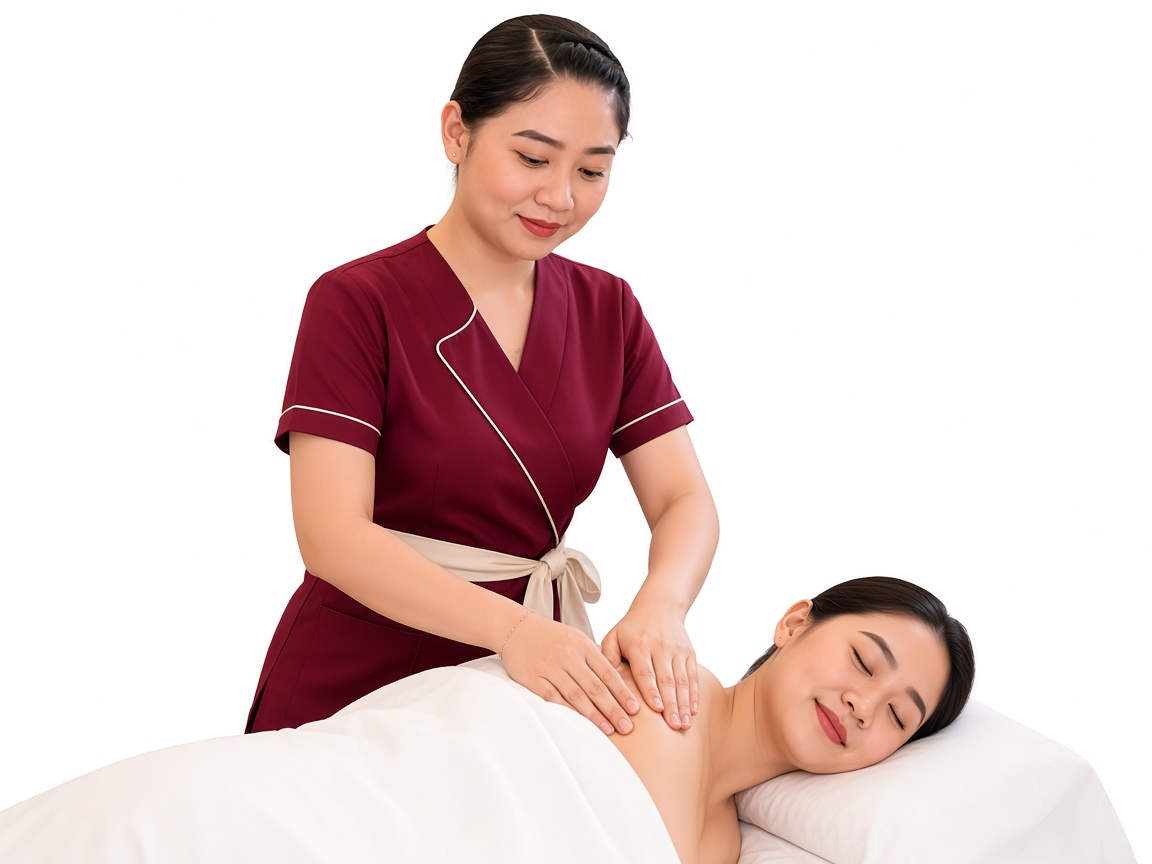
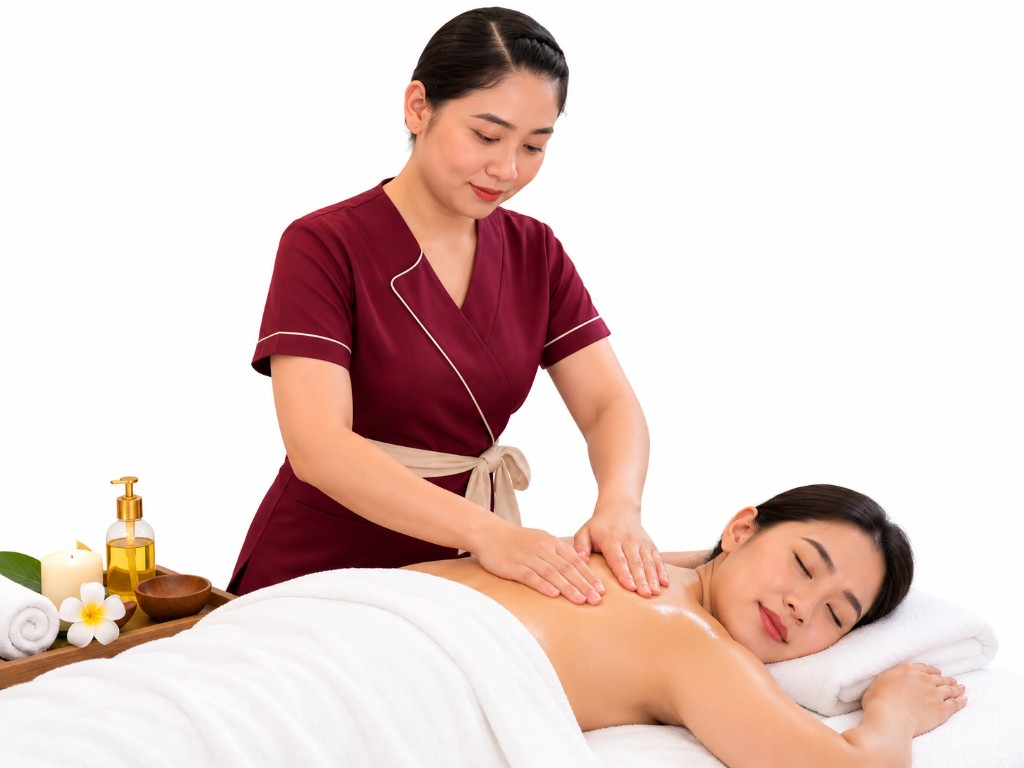
added changes

Changed region(s): [[0.0, 0.0, 0.9688, 1.0], [0.4688, 0.9375, 0.5, 1.0]]

diff --git a/src/lib/service-data.ts b/src/lib/service-data.ts
@@ -20,30 +20,30 @@ const eventImage = '/images/services/home-cta.jpg';
 const make = (slug:string,name:string,category:ServiceItem['category'],description:string,price:string,duration:string,image:string,highlights:string[]):ServiceItem => ({slug,name,category,description,price,duration,image,highlights});
 
 export const serviceItems: ServiceItem[] = [
-  make('luxury-spa-package-dubai','Luxury Spa Package','spa','A complete premium spa journey combining relaxation, massage and wellness rituals for a calm, polished experience at home or hotel.','....','120 min','/images/packages/luxury-v2.jpg',['Professional female therapist','Premium oils & products','Home, hotel or private location']),
+  make('luxury-spa-package-dubai','Luxury Spa Package','spa','A complete premium spa journey combining relaxation, massage and wellness rituals for a calm, polished experience at home or hotel.','....','120 min','/images/packages/luxury-v3.jpg',['Professional female therapist','Premium oils & products','Home, hotel or private location']),
   make('couples-spa-package-dubai','Couples Spa Package','spa','A relaxing shared spa experience designed for couples who want quality time, calm surroundings and personalized treatments.','....','90 min','/images/packages/couples-v2.jpg',['Two professional therapists','Couples setup','Flexible location']),
   make('spa-day-package-dubai','Spa Day Package','spa','A full spa-day style experience with restorative treatments and wellness touches delivered wherever you are in Dubai.','....','100 min','/images/packages/spa-day-v3.jpg',['Relaxation ritual','Massage & wellness care','Personalized setup']),
-  make('massage-package-dubai','Massage Package','spa','A focused massage experience for stress release, muscle relaxation and everyday wellness.','....','60 min','/images/packages/massage-v2.jpg',['Multiple massage styles','Experienced therapist','At-your-place service']),
+  make('massage-package-dubai','Massage Package','spa','A focused massage experience for stress release, muscle relaxation and everyday wellness.','....','60 min','/images/packages/massage-v3.jpg',['Multiple massage styles','Experienced therapist','At-your-place service']),
   make('moroccan-bath-package-dubai','Moroccan Bath Package','spa','A luxurious Moroccan bath ritual with cleansing, exfoliation and relaxing finishing care.','....','75 min','/images/packages/moroccan-v2.jpg',['Traditional-inspired ritual','Premium body care','Private setup']),
   make('spa-gift-voucher-dubai','Spa Gift Voucher','spa','A thoughtful wellness gift for birthdays, anniversaries, celebrations or simply someone who deserves time to relax.','....','Flexible','/images/packages/voucher-v2.jpg',['Digital-friendly gifting','Multiple package choices','Personalized message']),
-  make('birthday-spa-package-dubai','Birthday Spa Package','spa','Celebrate a special day with a beautiful private spa experience designed around comfort and relaxation.','....','90 min','/images/events/birthday-v2.jpg',['Birthday-ready setup','Group options','At-home experience']),
+  make('birthday-spa-package-dubai','Birthday Spa Package','spa','Celebrate a special day with a beautiful private spa experience designed around comfort and relaxation.','....','90 min','/images/events/birthday-v3.jpg',['Birthday-ready setup','Group options','At-home experience']),
   make('bridal-spa-package-dubai','Bridal Spa Package','spa','A calming bridal wellness experience before the big day, with personalized beauty and relaxation treatments.','....','120 min','/images/packages/bridal-v2.jpg',['Bridal preparation','Beauty & wellness','Private group options']),
   make('ladies-spa-package-dubai','Ladies Spa Package','spa','A premium ladies-only wellness experience for relaxation, beauty and self-care at your preferred location.','....','90 min','/images/packages/ladies-v2.jpg',['Female therapists','Ladies-only experience','Home & hotel service']),
 
-  make('home-spa-dubai','Home Spa Dubai','place','Professional spa and beauty services delivered to your home with a discreet, comfortable setup.','....','60 min','/images/place/home-spa.jpg',['At-home convenience','Professional therapists','Flexible appointments']),
-  make('home-massage-service-dubai','Home Massage Service Dubai','place','Relax with a professional massage in the comfort of your own home.','....','60 min','/images/place/home-massage.jpg',['Experienced therapist','Flexible timing','Comfort-first setup']),
-  make('hotel-room-spa-service-dubai','Hotel Room Spa Service Dubai','place','Turn your hotel room into a peaceful spa retreat with professional mobile treatments.','....','60 min','/images/place/hotel.jpg',['Hotel-friendly setup','Discreet service','Premium products']),
-  make('apartment-spa-service-dubai','Apartment Spa Service Dubai','place','Enjoy personalized spa and wellness treatments without leaving your apartment.','....','60 min','/images/place/apartment-v3.jpg',['Apartment setup','Female therapists','Personalized treatment']),
-  make('couples-massage-at-home-dubai','Couples Massage at Home Dubai','place','A private couples massage experience arranged at your home for a relaxed shared moment.','....','90 min','/images/place/couples.jpg',['Two therapists','Couples setup','Private experience']),
-  make('home-facial-service-dubai','Home Facial Service Dubai','place','Bring professional facial care to your home with a relaxing, personalized beauty session.','....','60 min','/images/place/facial.jpg',['Professional facial care','Premium products','At-home comfort']),
+  make('home-spa-dubai','Home Spa Dubai','place','Professional spa and beauty services delivered to your home with a discreet, comfortable setup.','....','60 min','/images/place/home-spa-v2.jpg',['At-home convenience','Professional therapists','Flexible appointments']),
+  make('home-massage-service-dubai','Home Massage Service Dubai','place','Relax with a professional massage in the comfort of your own home.','....','60 min','/images/place/home-massage-v2.jpg',['Experienced therapist','Flexible timing','Comfort-first setup']),
+  make('hotel-room-spa-service-dubai','Hotel Room Spa Service Dubai','place','Turn your hotel room into a peaceful spa retreat with professional mobile treatments.','....','60 min','/images/place/hotel-v2.jpg',['Hotel-friendly setup','Discreet service','Premium products']),
+  make('apartment-spa-service-dubai','Apartment Spa Service Dubai','place','Enjoy personalized spa and wellness treatments without leaving your apartment.','....','60 min','/images/place/apartment-v4.jpg',['Apartment setup','Female therapists','Personalized treatment']),
+  make('couples-massage-at-home-dubai','Couples Massage at Home Dubai','place','A private couples massage experience arranged at your home for a relaxed shared moment.','....','90 min','/images/place/couples-v2.jpg',['Two therapists','Couples setup','Private experience']),
+  make('home-facial-service-dubai','Home Facial Service Dubai','place','Bring professional facial care to your home with a relaxing, personalized beauty session.','....','60 min','/images/place/facial-v2.jpg',['Professional facial care','Premium products','At-home comfort']),
   make('home-spa-marina-dubai','Home Spa Dubai Marina','place','Convenient mobile spa services for residents and guests in Dubai Marina.','....','60 min','/images/place/marina.jpg',['Dubai Marina coverage','Female therapists','Easy WhatsApp booking']),
   make('home-spa-jumeirah-dubai','Home Spa Jumeirah','place','Premium mobile spa and wellness treatments across Jumeirah.','....','60 min','/images/place/jumeirah.jpg',['Jumeirah coverage','Premium care','Flexible scheduling']),
-  make('home-spa-downtown-dubai','Home Spa Downtown Dubai','place','Professional spa experiences delivered to homes and residences in Downtown Dubai.','....','60 min','/images/place/downtown.jpg',['Downtown coverage','At-home setup','Professional care']),
-  make('home-spa-business-bay-dubai','Home Spa Business Bay','place','A convenient in-room or apartment spa experience for Business Bay residents and guests.','....','60 min','/images/place/business-bay.jpg',['Business Bay coverage','Hotel & apartment service','WhatsApp booking']),
+  make('home-spa-downtown-dubai','Home Spa Downtown Dubai','place','Professional spa experiences delivered to homes and residences in Downtown Dubai.','....','60 min','/images/place/downtown-v2.jpg',['Downtown coverage','At-home setup','Professional care']),
+  make('home-spa-business-bay-dubai','Home Spa Business Bay','place','A convenient in-room or apartment spa experience for Business Bay residents and guests.','....','60 min','/images/place/business-bay-v2.jpg',['Business Bay coverage','Hotel & apartment service','WhatsApp booking']),
 
-  make('spa-event-services-dubai','Spa Event Services Dubai','event','Mobile spa and wellness services designed for private and corporate events across Dubai.','....','Flexible','/images/events/spa-services-v2.jpg',['Event planning support','Multiple therapists','Custom setup']),
+  make('spa-event-services-dubai','Spa Event Services Dubai','event','Mobile spa and wellness services designed for private and corporate events across Dubai.','....','Flexible','/images/events/spa-services-v3.jpg',['Event planning support','Multiple therapists','Custom setup']),
   make('spa-party-dubai','Spa Party Dubai','event','Create a memorable spa party with relaxing treatments, professional therapists and a beautiful setup.','....','2+ hrs','/images/events/spa-party-v2.jpg',['Private group','Custom packages','On-site therapists']),
-  make('birthday-spa-party-dubai','Birthday Spa Party Dubai','event','A wellness-focused birthday experience for friends, family and private celebrations.','....','2+ hrs','/images/events/birthday-v2.jpg',['Birthday setup','Group treatments','Personalized packages']),
+  make('birthday-spa-party-dubai','Birthday Spa Party Dubai','event','A wellness-focused birthday experience for friends, family and private celebrations.','....','2+ hrs','/images/events/birthday-v3.jpg',['Birthday setup','Group treatments','Personalized packages']),
   make('bridal-shower-spa-dubai','Bridal Shower Spa Dubai','event','Make a bridal shower extra special with a curated spa experience for the bride and guests.','....','2+ hrs','/images/events/bridal-shower-v2.jpg',['Bridal-friendly setup','Group service','Beauty & relaxation']),
   make('hen-party-spa-dubai','Hen Party Spa Dubai','event','A fun and relaxing pre-wedding wellness experience for the bride and her group.','....','2+ hrs','/images/events/hen-party-v2.jpg',['Group spa treatments','Flexible location','Custom experience']),
   make('corporate-wellness-spa-dubai','Corporate Wellness Spa Dubai','event','Bring professional wellness treatments to your workplace for team wellbeing and employee appreciation.','....','Flexible','/images/events/corporate-v2.jpg',['Corporate packages','On-site therapists','Scalable groups']),

diff --git a/src/app/page.tsx b/src/app/page.tsx
@@ -72,8 +72,8 @@ export default async function HomePage() {
           <h2 className="display-font home-explore-title">Explore Spa Services</h2>
           <p className="home-explore-lede">Home, hotel, events or the workplace.</p>
           <div className="home-explore-grid">
-            <Link href="/spa-packages"><span className="home-explore-photo"><Image src="/images/hero/svc-spa-package-v3.jpg" alt="ALLORA therapist for spa package" fill sizes="(max-width:800px) 50vw, 240px" /></span><strong>Spa Package</strong><span>Treatments for you.</span><em>Explore</em></Link>
-            <Link href="/your-place"><span className="home-explore-photo"><Image src="/images/hero/svc-your-place-v2.jpg" alt="ALLORA therapist massage at your place" fill sizes="(max-width:800px) 50vw, 240px" /></span><strong>Your Place</strong><span>Home or hotel.</span><em>Explore</em></Link>
+            <Link href="/spa-packages"><span className="home-explore-photo"><Image src="/images/hero/svc-spa-package-v4.jpg" alt="ALLORA therapist for spa package" fill sizes="(max-width:800px) 50vw, 240px" /></span><strong>Spa Package</strong><span>Treatments for you.</span><em>Explore</em></Link>
+            <Link href="/your-place"><span className="home-explore-photo"><Image src="/images/hero/svc-your-place-v3.jpg" alt="ALLORA therapist massage at your place" fill sizes="(max-width:800px) 50vw, 240px" /></span><strong>Your Place</strong><span>Home or hotel.</span><em>Explore</em></Link>
             <Link href="/event-services"><span className="home-explore-photo"><Image src="/images/hero/svc-event.jpg" alt="ALLORA therapist for event service" fill sizes="(max-width:800px) 50vw, 240px" /></span><strong>Event Service</strong><span>For a celebration.</span><em>Explore</em></Link>
             <Link href="/corporate"><span className="home-explore-photo"><Image src="/images/hero/svc-corporate.jpg" alt="ALLORA therapist corporate massage" fill sizes="(max-width:800px) 50vw, 240px" /></span><strong>Corporate</strong><span>Wellness at work.</span><em>Explore</em></Link>
             <Link href="/deep-tissue"><span className="home-explore-photo"><Image src="/images/massages/deep-tissue-v2.jpg" alt="ALLORA therapist deep tissue massage" fill sizes="(max-width:800px) 50vw, 240px" /></span><strong>Deep Tissue</strong><span>Firm, focused care.</span><em>Explore</em></Link>

diff --git a/src/components/hero-therapists.tsx b/src/components/hero-therapists.tsx
@@ -10,8 +10,8 @@ const INTERVAL_MS = 3000;
 const SLIDE_MS = 800;
 
 const slides = [
-  { name: 'Spa Package', href: '/spa-packages', src: '/images/hero/svc-spa-package-v3.jpg', alt: 'ALLORA therapist massaging a shoulder' },
-  { name: 'Your Place', href: '/your-place', src: '/images/hero/svc-your-place-v2.jpg', alt: 'ALLORA therapist massaging a calf' },
+  { name: 'Spa Package', href: '/spa-packages', src: '/images/hero/svc-spa-package-v4.jpg', alt: 'ALLORA therapist massaging a shoulder' },
+  { name: 'Your Place', href: '/your-place', src: '/images/hero/svc-your-place-v3.jpg', alt: 'ALLORA therapist giving a massage at your place' },
   { name: 'Event Service', href: '/event-services', src: '/images/hero/svc-event.jpg', alt: 'ALLORA therapist pampering a bride before her celebration' },
   { name: 'Corporate', href: '/corporate', src: '/images/hero/svc-corporate.jpg', alt: 'ALLORA therapist giving a seated shoulder massage at the office' },
   { name: 'Deep Tissue', href: '/deep-tissue', src: '/images/massages/deep-tissue-v2.jpg', alt: 'ALLORA therapist giving a firm deep tissue massage' },

diff --git a/src/app/spa-packages/page.tsx b/src/app/spa-packages/page.tsx
@@ -40,7 +40,7 @@ export default async function SpaPackages() {
             </ul>
           </div>
           <div className="pkg-hero-collage" aria-hidden="true">
-            <Image className="pkg-collage-main" src="/images/packages/luxury-v2.jpg" alt="" width={1152} height={864} priority sizes="(max-width:900px) 92vw, 520px" />
+            <Image className="pkg-collage-main" src="/images/packages/luxury-v3.jpg" alt="" width={1152} height={864} priority sizes="(max-width:900px) 92vw, 520px" />
             <Image className="pkg-collage-small pkg-collage-a" src="/images/packages/couples-v2.jpg" alt="" width={1152} height={864} sizes="220px" />
             <Image className="pkg-collage-small pkg-collage-b" src="/images/packages/bridal-v2.jpg" alt="" width={1152} height={864} sizes="220px" />
           </div>

diff --git a/src/app/event-services/page.tsx b/src/app/event-services/page.tsx
@@ -42,7 +42,7 @@ export default async function EventServices() {
           </div>
           <div className="pkg-hero-collage" aria-hidden="true">
             <Image className="pkg-collage-main" src="/images/events/spa-party-v2.jpg" alt="" width={1152} height={864} priority sizes="(max-width:900px) 92vw, 520px" />
-            <Image className="pkg-collage-small pkg-collage-a" src="/images/events/birthday-v2.jpg" alt="" width={1152} height={864} sizes="220px" />
+            <Image className="pkg-collage-small pkg-collage-a" src="/images/events/birthday-v3.jpg" alt="" width={1152} height={864} sizes="220px" />
             <Image className="pkg-collage-small pkg-collage-b" src="/images/events/bridal-shower-v2.jpg" alt="" width={1152} height={864} sizes="220px" />
           </div>
         </div>

diff --git a/src/app/your-place/page.tsx b/src/app/your-place/page.tsx
@@ -41,7 +41,7 @@ export default async function YourPlace() {
             </ul>
           </div>
           <div className="pkg-hero-collage" aria-hidden="true">
-            <Image className="pkg-collage-main" src="/images/place/home-spa.jpg" alt="" width={1152} height={864} priority sizes="(max-width:900px) 92vw, 520px" />
+            <Image className="pkg-collage-main" src="/images/place/home-spa-v2.jpg" alt="" width={1152} height={864} priority sizes="(max-width:900px) 92vw, 520px" />
             <Image className="pkg-collage-small pkg-collage-a" src="/images/place/hotel.jpg" alt="" width={1152} height={864} sizes="220px" />
             <Image className="pkg-collage-small pkg-collage-b" src="/images/place/facial.jpg" alt="" width={1152} height={864} sizes="220px" />
           </div>

diff --git a/src/lib/massage-data.ts b/src/lib/massage-data.ts
@@ -14,8 +14,8 @@ export const massages: Massage[] = [
     name: 'Thai Massage',
     short: 'Gentle stretches to ease tight muscles.',
     description: 'Assisted stretches and rhythmic pressure that loosen tight muscles and help you move more freely.',
-    image: '/images/massages/thai-v2.jpg',
-    alt: "Therapist lifting and stretching a client's leg",
+    image: '/images/massages/thai-v3.jpg',
+    alt: "Therapist massaging a client's legs during Thai massage",
     highlights: ['Assisted, yoga-style stretches', 'Rhythmic palm and thumb pressure', 'Done in loose, comfortable clothing', 'At your home or hotel'],
   },
   {
